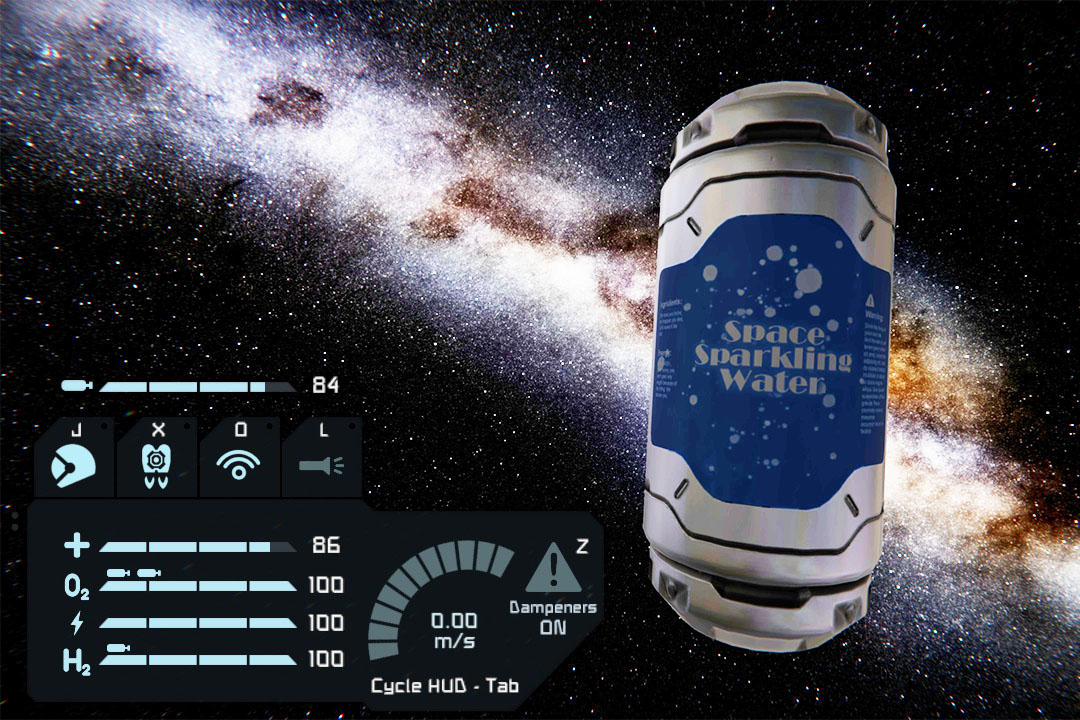
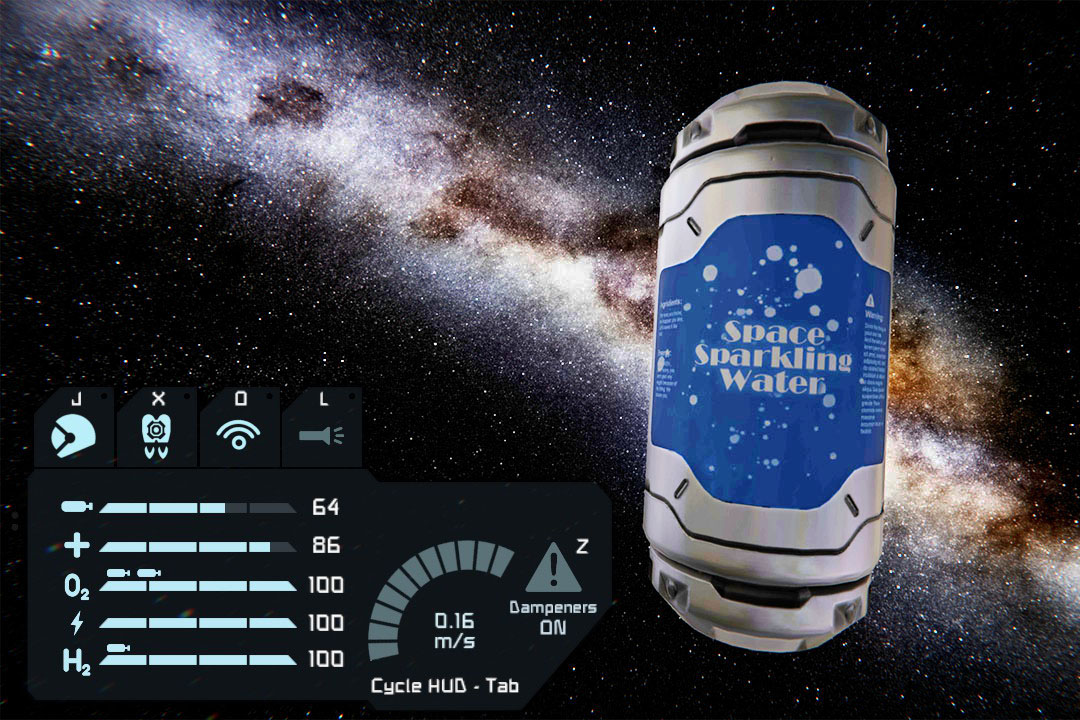
Some tweaks

diff --git a/README.md b/README.md
@@ -1,6 +1,10 @@
 # drinkwater
 https://steamcommunity.com/sharedfiles/filedetails/?id=2547246713
 
+UPDATE 7/20/2021:
+
+- Moved Water stat closer to the other stats.
+
 UPDATE 7/19/2021:
 
 - Fresh and Cold Sparkling Water is now available at the nearest assembler!
